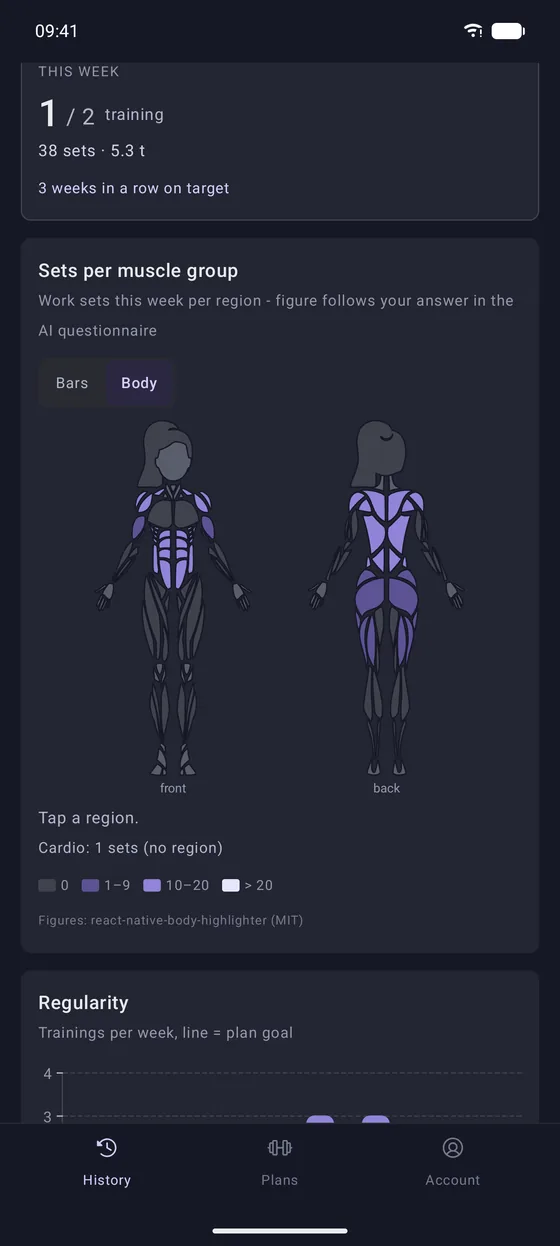
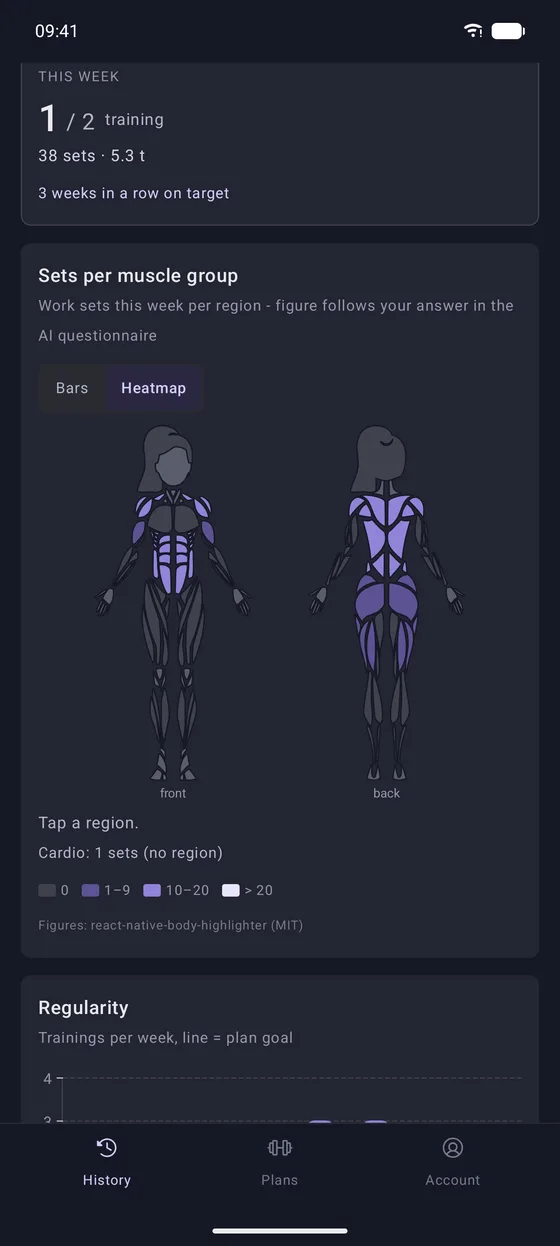
Produktseite: Zeitleiste, Heatmap, Muskel-Vorschau und Planbearbeitung

diff --git a/index.html b/index.html
@@ -90,7 +90,7 @@
     <div class="phones">
       <div class="phone"><img src="img/verlauf.webp" alt="Verlauf mit Zeit seit dem letzten Training und dem nächsten empfohlenen Termin"></div>
       <div class="phone big"><img src="img/training-pause.webp" alt="Pause mit Timer und Satzerfassung"></div>
-      <div class="phone"><img src="img/plan.webp" alt="Trainingsplan mit Wochen und Einheiten"></div>
+      <div class="phone"><img src="img/plan.webp" alt="Trainingsplan mit Wochen, Einheiten und Muskel-Vorschau"></div>
     </div>
   </div>
 </header>
@@ -126,6 +126,7 @@
         <li>Gewichtsvorschlag aus deinem 1RM, Einstellsatz, solange noch keins bekannt ist</li>
         <li>Leergewicht von Maschinen wird mitgerechnet, Gewichte in kg oder lb</li>
         <li>Übung überspringen oder eine Alternative wählen</li>
+        <li>Supersätze: die App springt ohne Pause zur nächsten Übung, Pause erst nach der Runde</li>
         <li>Übung spontan einschieben und die Reihenfolge anpassen – der Plan bleibt unverändert</li>
         <li>Aufwärmsätze mit einem Tipp markieren – sie zählen nicht als Arbeitssatz</li>
         <li>Satz bis zum Versagen markieren, „8+“-Vorgaben für so viele Wiederholungen wie möglich</li>
@@ -193,14 +194,35 @@
         <li>Nächstes Training mit einem Tipp starten</li>
         <li>Sätze und bewegtes Gewicht je Einheit</li>
         <li>Übungsverlauf mit Bestwerten und e1RM-Trend, Soll gegen Ist</li>
-        <li>Sätze je Muskelgruppe – als Balken oder auf der anatomischen Körperkarte, weiblich oder männlich</li>
+        <li>Sätze je Muskelgruppe – als Balken oder als Heatmap auf der anatomischen Körperkarte, weiblich oder männlich</li>
         <li>Übungsbestand: Muskelgruppen, 1RM und Video je Übung pflegen, per KI ergänzen</li>
         <li>Mit Oura-Ring: deine Bereitschaft gegen deine Tagesform</li>
       </ul>
     </div>
     <div class="media">
-      <div class="phone"><img src="img/koerperkarte.webp" alt="Sätze je Muskelgruppe auf der Körperkarte, vorn und hinten"></div>
+      <div class="phone"><img src="img/koerperkarte.webp" alt="Heatmap: Sätze je Muskelgruppe auf der Körperkarte, vorn und hinten"></div>
       <div class="phone"><img src="img/uebungen.webp" alt="Übungsbestand mit Muskelgruppen, 1RM und letztem Training"></div>
+    </div>
+  </div>
+</section>
+
+<section>
+  <div class="wrap feature">
+    <div class="text">
+      <div class="kicker">Plan bearbeiten</div>
+      <h2>Dein Plan wächst mit dir.</h2>
+      <p>Übungen tauschen, Sätze anpassen, eine Einheit dazunehmen – direkt in der App. Änderungen gelten sofort, auch im laufenden Training. Vor größeren Umbauten legst du mit einem Tipp eine Kopie an.</p>
+      <ul class="points">
+        <li>Übungen ändern, hinzufügen, verschieben und löschen</li>
+        <li>Einheiten, Blöcke und Wochen-Progression anpassen</li>
+        <li>Supersätze verbinden: Übungen im Wechsel, Pause erst nach der Runde – im Plan oder spontan im Training</li>
+        <li>Muskel-Vorschau: welche Muskeln dein Plan und jede Einheit in der laufenden Woche trainieren, per Tipp groß</li>
+        <li>Plan duplizieren</li>
+      </ul>
+    </div>
+    <div class="media">
+      <div class="phone"><img src="img/plan-bearbeiten.webp" alt="Plan im Bearbeitungsmodus mit Pfeilen, Supersatz-Tasten und Übung hinzufügen"></div>
+      <div class="phone"><img src="img/plan.webp" alt="Einheit mit Muskel-Vorschau und Übungen der Woche"></div>
     </div>
   </div>
 </section>

diff --git a/en.html b/en.html
@@ -90,7 +90,7 @@
     <div class="phones">
       <div class="phone"><img src="img/en-verlauf.webp" alt="History with time since the last training and the next recommended date"></div>
       <div class="phone big"><img src="img/en-training-pause.webp" alt="Rest with timer and set logging"></div>
-      <div class="phone"><img src="img/en-plan.webp" alt="Training plan with weeks and sessions"></div>
+      <div class="phone"><img src="img/en-plan.webp" alt="Training plan with weeks, sessions and muscle preview"></div>
     </div>
   </div>
 </header>
@@ -126,6 +126,7 @@
         <li>Weight suggestion from your 1RM, a calibration set while it is still unknown</li>
         <li>Machine empty weight is added automatically, weights in kg or lb</li>
         <li>Skip an exercise or pick an alternative</li>
+        <li>Supersets: the app moves on to the next exercise without rest, rest only after the round</li>
         <li>Add an exercise on the spot and change the order – your plan stays unchanged</li>
         <li>Mark warm-up sets with one tap – they do not count as work sets</li>
         <li>Mark a set to failure, “8+” targets for as many reps as possible</li>
@@ -193,14 +194,35 @@
         <li>Start your next training with one tap</li>
         <li>Sets and total weight moved per session</li>
         <li>Exercise history with records and e1RM trend, target vs. actual</li>
-        <li>Sets per muscle group – as bars or on the anatomical body map, female or male</li>
+        <li>Sets per muscle group – as bars or as a heatmap on the anatomical body map, female or male</li>
         <li>Exercise library: maintain muscle groups, 1RM and video per exercise, add with AI</li>
         <li>With an Oura ring: your readiness against your daily form</li>
       </ul>
     </div>
     <div class="media">
-      <div class="phone"><img src="img/en-koerperkarte.webp" alt="Sets per muscle group on the body map, front and back"></div>
+      <div class="phone"><img src="img/en-koerperkarte.webp" alt="Heatmap: sets per muscle group on the body map, front and back"></div>
       <div class="phone"><img src="img/en-uebungen.webp" alt="Exercise library with muscle groups, 1RM and last training"></div>
+    </div>
+  </div>
+</section>
+
+<section>
+  <div class="wrap feature">
+    <div class="text">
+      <div class="kicker">Edit your plan</div>
+      <h2>Your plan grows with you.</h2>
+      <p>Swap exercises, adjust sets, add a session – right in the app. Changes apply instantly, even during a workout. Before bigger changes, make a copy with one tap.</p>
+      <ul class="points">
+        <li>Change, add, move and delete exercises</li>
+        <li>Adjust sessions, blocks and weekly progression</li>
+        <li>Link supersets: alternate exercises, rest only after the round – in the plan or on the spot during training</li>
+        <li>Muscle preview: which muscles your plan and each session train in the current week, tap to enlarge</li>
+        <li>Duplicate a plan</li>
+      </ul>
+    </div>
+    <div class="media">
+      <div class="phone"><img src="img/en-plan-bearbeiten.webp" alt="Plan in edit mode with arrows, superset buttons and add exercise"></div>
+      <div class="phone"><img src="img/en-plan.webp" alt="Session with muscle preview and exercises of the week"></div>
     </div>
   </div>
 </section>
